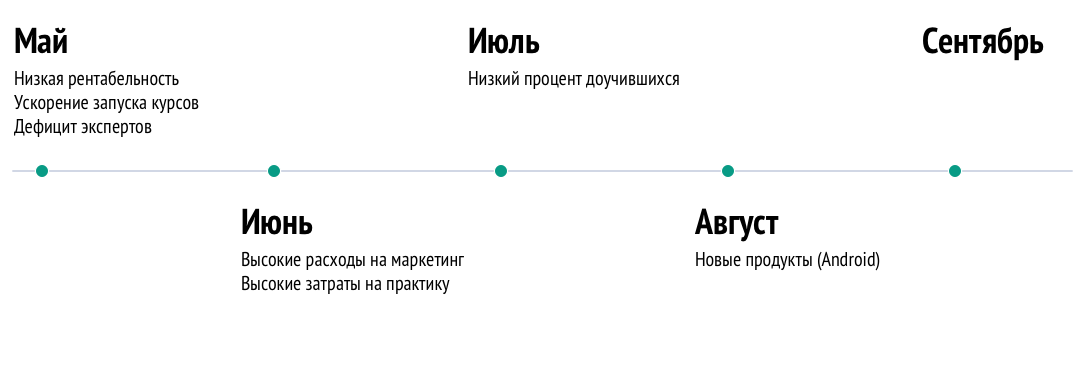
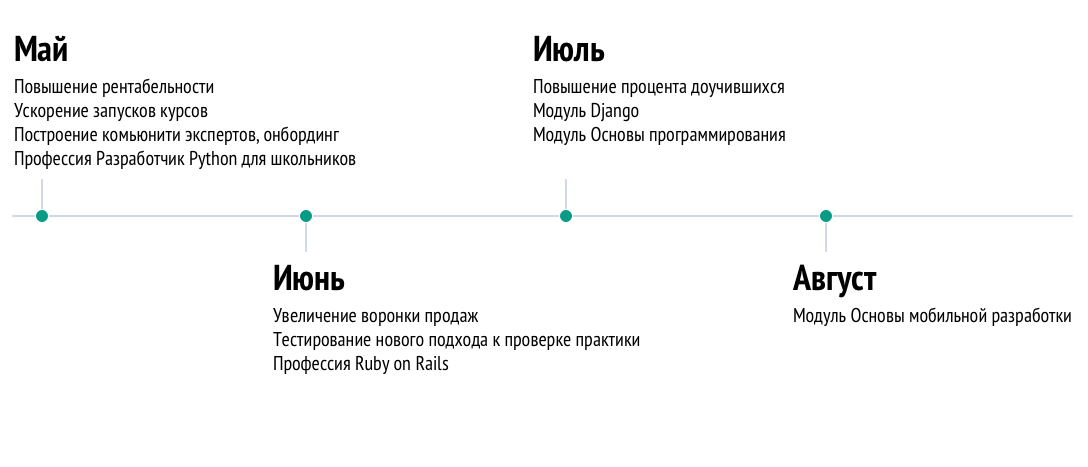
add pic

diff --git a/index.html b/index.html
@@ -296,7 +296,7 @@
   <section class="slide">
     <h2>Roadmap на лето</h2>
     <figure>
-      <img src="i/roadmap2.png" alt="Roadmap">
+      <img src="i/roadmap.png" alt="Roadmap">
     </figure>
   </section>
    
